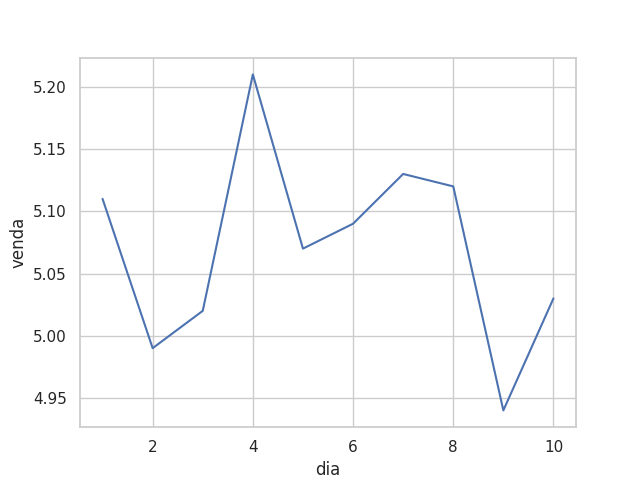
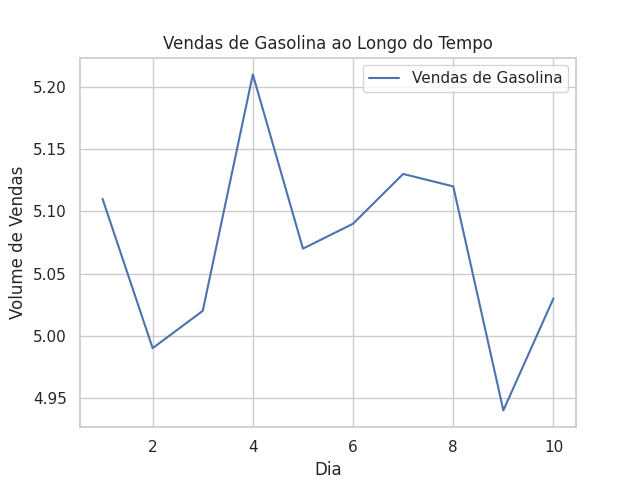
adcionado novo gráfico e gasolina.py

Changed region(s): [[0.25, 0.0625, 0.9062, 0.1875], [0.0, 0.3438, 0.0625, 0.6562], [0.4688, 0.9688, 0.5312, 1.0]]

diff --git a/gasolina.py b/gasolina.py
@@ -1,0 +1,27 @@
+
+import pandas as pd
+import seaborn as sns
+import matplotlib.pyplot as plt
+
+# Carregue o arquivo CSV usando o pandas
+data = pd.read_csv("gasolina.csv")
+
+# Crie um gráfico de linha com o Seaborn
+sns.set(style="whitegrid")  
+sns.lineplot(x='dia', y='venda', data=data, label='Vendas de Gasolina')
+
+# Adicione um título ao gráfico
+plt.title('Vendas de Gasolina ao Longo do Tempo')
+
+# Adicione uma legenda
+plt.legend(loc='upper right')
+
+# Adicione rótulos aos eixos (opcional)
+plt.xlabel('Dia')
+plt.ylabel('Volume de Vendas')
+
+# Salve o gráfico como gasolina.png usando o Matplotlib
+plt.savefig('gasolina.png')
+
+# Exiba o gráfico
+plt.show()
